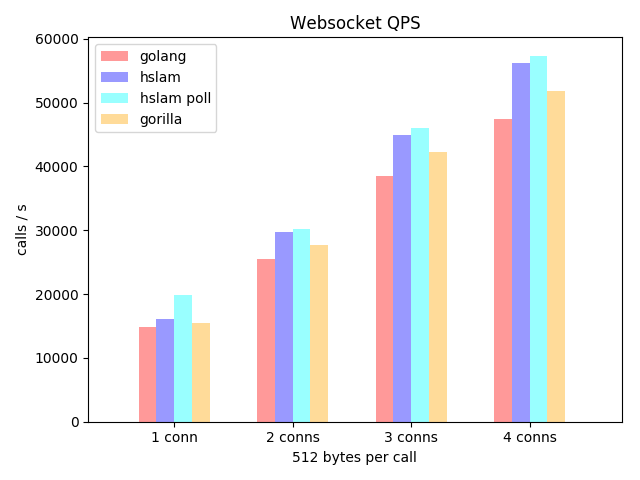
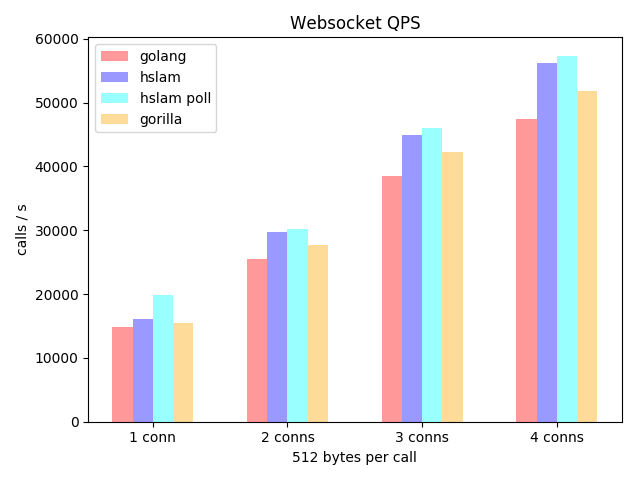
update png size

Changed region(s): [[0.5625, 0.0938, 0.9375, 0.9375], [0.1562, 0.5938, 0.3438, 0.9375], [0.375, 0.4688, 0.5, 0.9375]]

diff --git a/README.md b/README.md
@@ -2,4 +2,4 @@
 
 ##### Websocket QPS
 
-<img src="https://raw.githubusercontent.com/hslam/websocket-benchmark/master/websocket-qps.png" alt="websocket" align=center>
+<img src="https://raw.githubusercontent.com/hslam/websocket-benchmark/master/websocket-qps.png" width = "400" height = "300" alt="websocket" align=center>
